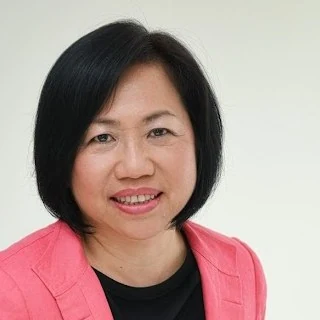
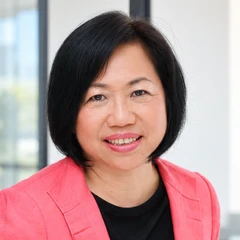
Apply review feedback: new photos, copy and footer tweaks
- New founder photos: hero, founder card, About (both) and Work With Me
  each use a different photo, now as small WebP files
- Hero caption in the same font as the buttons, no italic
- Remove the "Free tool" label above the assessment headline
- Founder card: drop ", UK"
- Result line: "Less firefighting. Less manual work. More operational
  control. Time and capacity to grow."
- Footer: add "AI Voice Receptionist" to Solutions We Offer

Claude-Session: https://claude.ai/code/session_01FaBq9Mmopw3V5RV7U6DxX8

diff --git a/src/pages/About.tsx b/src/pages/About.tsx
@@ -7,7 +7,7 @@ import Footer from "@/components/Footer";
 import BackToTop from "@/components/BackToTop";
 import { Button } from "@/components/ui/button";
 import selinaAboutPhoto from "@/assets/selina-about-portrait.webp";
-import selinaPhoto from "@/assets/selina-founder.png";
+import selinaPhoto from "@/assets/selina-story-portrait.webp";
 
 const values = [
   {
@@ -98,8 +98,8 @@ const About = () => {
                       <img
                         src={selinaAboutPhoto}
                         alt="Selina Fischer, founder of IntegroAI Consulting"
-                        width={585}
-                        height={731}
+                        width={900}
+                        height={1125}
                         className="w-full h-full object-cover object-top"
                         loading="lazy"
                         decoding="async"
@@ -210,9 +210,9 @@ const About = () => {
                     </div>
                     <img
                       src={selinaPhoto}
-                      alt="Selina Fischer - IntegroAI Founder"
-                      width={400}
-                      height={400}
+                      alt="Selina Fischer, founder of IntegroAI Consulting"
+                      width={960}
+                      height={1200}
                       loading="lazy"
                       decoding="async"
                       className="relative w-80 sm:w-96 lg:w-[30rem] rounded-2xl overflow-hidden shadow-2xl ring-1 ring-border/20 z-10 h-auto"

diff --git a/src/components/Hero.tsx b/src/components/Hero.tsx
@@ -59,15 +59,13 @@ const Hero = () => {
               src={portrait}
               alt="Selina Fischer, founder of IntegroAI Consulting"
               width={680}
-              height={840}
+              height={850}
               fetchPriority="high"
               decoding="async"
-              className="block h-full w-full object-cover opacity-90"
+              className="block h-full w-full object-cover object-top opacity-90"
             />
           </div>
-          <p className="display text-2xl font-semibold italic text-white sm:text-[27px]">
-            Selina Fischer, Founder
-          </p>
+          <p className="text-lg font-bold text-white">Selina Fischer, Founder</p>
         </motion.div>
       </div>
     </section>

diff --git a/src/components/AssessmentSection.tsx b/src/components/AssessmentSection.tsx
@@ -22,7 +22,6 @@ const AssessmentSection = () => {
     <section id="assessment" className="bg-brand-cream py-14 sm:py-16">
       <div className="wrap grid grid-cols-1 items-center gap-10 lg:grid-cols-2 lg:gap-14">
         <motion.div {...fadeUp} className="flex flex-col items-start gap-[18px]">
-          <p className="eyebrow tracking-[0.16em]">Free tool</p>
           <h2 className="section-title !text-brand-navy">
             Is your business <span className="italic text-brand-amber">ready for AI?</span>
           </h2>

diff --git a/src/components/Founder.tsx b/src/components/Founder.tsx
@@ -40,7 +40,7 @@ const Founder = () => {
             />
             <div className="flex flex-col gap-0.5">
               <p className="display text-[28px] font-bold leading-[1.1] text-brand-navy sm:text-[32px]">Selina Fischer</p>
-              <p className="text-[15px] font-semibold text-brand-slate">Founder of IntegroAI Consulting, UK</p>
+              <p className="text-[15px] font-semibold text-brand-slate">Founder of IntegroAI Consulting</p>
             </div>
           </div>
 

diff --git a/src/pages/WorkWithMe.tsx b/src/pages/WorkWithMe.tsx
@@ -6,7 +6,7 @@ import Header from "@/components/Header";
 import Footer from "@/components/Footer";
 import BackToTop from "@/components/BackToTop";
 import { Button } from "@/components/ui/button";
-import selinaOffice from "@/assets/selina-office.png";
+import selinaOffice from "@/assets/selina-work-portrait.webp";
 
 // The free assessment is Stage 01: the entry point into the six-stage
 // journey, not something separate from it. It uses a simplified card

diff --git a/src/components/WhyIntegroAI.tsx b/src/components/WhyIntegroAI.tsx
@@ -76,7 +76,7 @@ const WhyIntegroAI = () => {
             Measurable business value from AI.
           </p>
           <p className="text-base text-brand-mist lg:flex-1">
-            Clarity your team can act on. Less firefighting. Time back for the work clients pay for.
+            Less firefighting. Less manual work. More operational control. Time and capacity to grow.
           </p>
         </motion.div>
 

diff --git a/src/components/Footer.tsx b/src/components/Footer.tsx
@@ -15,6 +15,7 @@ const Footer = () => {
     "AI Strategy & Prioritisation Roadmap",
     "AI Foundations & Responsible Adoption",
     "AI & Automation Implementation",
+    "AI Voice Receptionist",
     "Ongoing AI & Operations Advisory",
   ];
 
